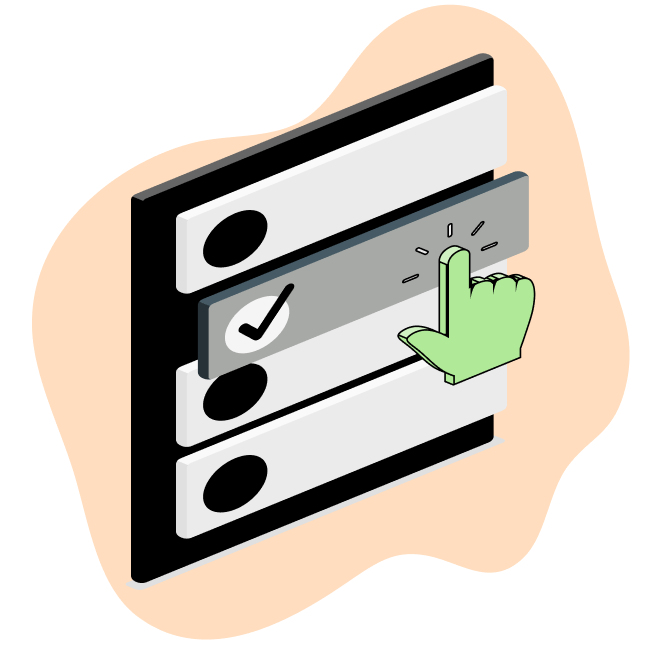
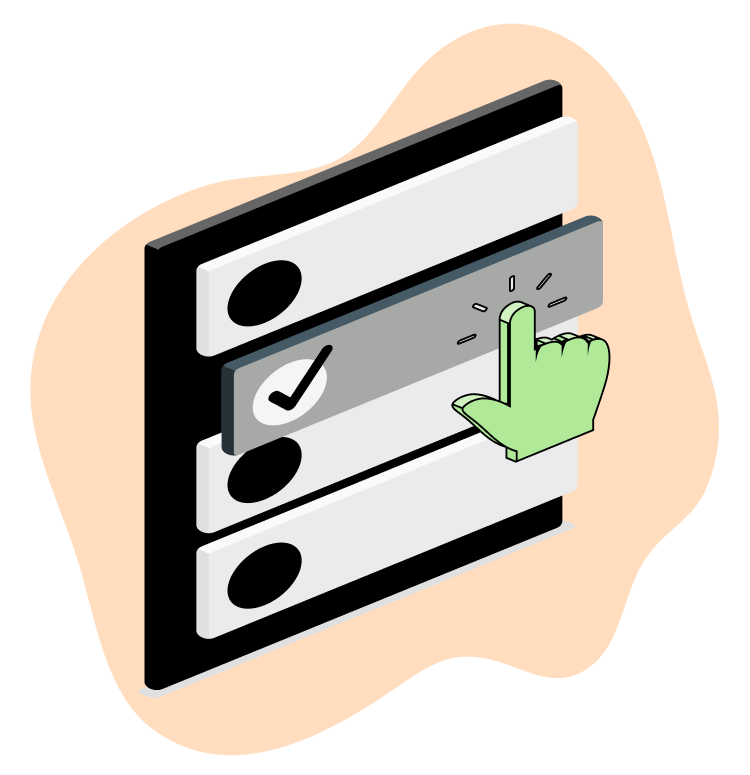
modificado iniciar-partida foto

diff --git a/MyBoardPlays/src/app/iniciar-partida/iniciar-partida.component.html b/MyBoardPlays/src/app/iniciar-partida/iniciar-partida.component.html
@@ -1,8 +1,6 @@
 <div class="contenedor-iniciarPartida">
-    <div class="contenedor__imagen">
         <img src="assets/img/iniciarPartida.png" class="images" alt="iniciarPartida">
-    </div>
-    <div class="contenedor__iniciarPartida--contenido">
+    
         <form (ngSubmit)="iniciarPartida()" #iniciarPartidaForm="ngForm">
             <fieldset class="form">
                 <label for="addPart" class="addParticipantes">Elige el número de participantes:</label>
@@ -11,5 +9,4 @@
             </fieldset>
             <button type="submit" [disabled]="!iniciarPartidaForm.valid" class="button__action">Iniciar partida</button>
         </form>
-    </div>
 </div>

diff --git a/MyBoardPlays/src/app/iniciar-partida/iniciar-partida.component.css b/MyBoardPlays/src/app/iniciar-partida/iniciar-partida.component.css
@@ -1,8 +1,10 @@
 .contenedor-iniciarPartida{
 
     display:flex;
+    justify-content: space-around ;
     align-items: center;
     padding:96px;
+    text-align: center;
     
 }
 
@@ -34,8 +36,8 @@
     
 }
 .images{
-  width:100%;
-  height: 100%;
+  width:20%;
+  height: 20%;
 }
 
 .form-button2{
